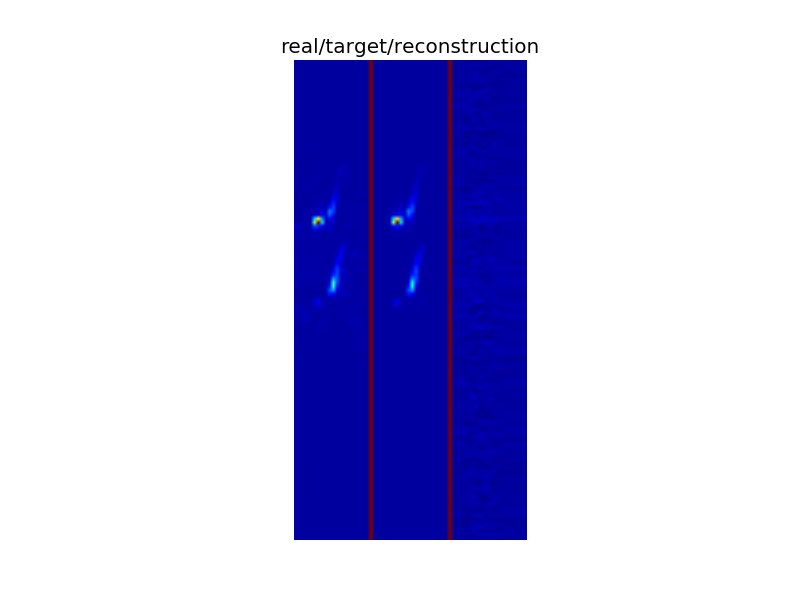
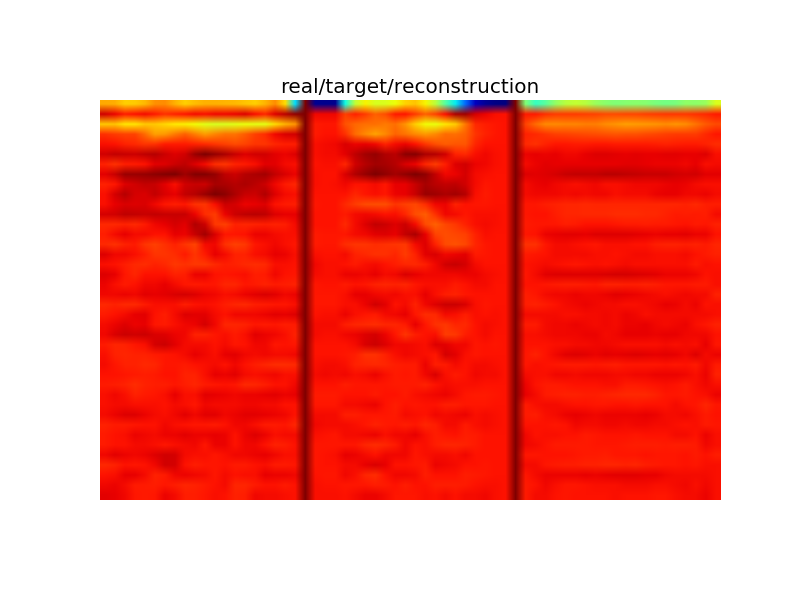
switched to mfcc

diff --git a/iterators.py b/iterators.py
@@ -131,8 +131,8 @@ class ParallelBatchIterator(object):
         #TODO: preprocess and load instead of transforming each time.
         for i in range(Xb.shape[0]):
             if self.mfcc:
-                Xb_new[i] = librosa.feature.mfcc(Xb[i], sr, n_mfcc=self.n_components, S=None)
-                yb_new[i] = librosa.feature.mfcc(yb[i], sr, n_mfcc=self.n_components, S=None)
+                Xb_new[i] = librosa.feature.mfcc(Xb[i], sr, n_mfcc=self.n_components, n_fft=2048, hop_length=512, S=None)
+                yb_new[i] = librosa.feature.mfcc(yb[i], sr, n_mfcc=self.n_components, n_fft=2048, hop_length=512, S=None)
             else:
                 Xb_new[i] = librosa.feature.melspectrogram(Xb[i], sr, n_mels=self.n_components, n_fft=2048, hop_length=512)
                 yb_new[i] = librosa.feature.melspectrogram(yb[i], sr, n_mels=self.n_components, n_fft=2048, hop_length=512)

diff --git a/neuralnet.py b/neuralnet.py
@@ -81,8 +81,8 @@ class NeuralNetwork():
         self.n_batches = ceil(len(X_train) / float(batch_size))
         self.n_val_batches = ceil(len(X_valid) / float(batch_size))
 
-        self.n_components = 128
-        self.mfcc = False
+        self.n_components = 40
+        self.mfcc = True
 
         self.batch_iterator_train = ParallelBatchIterator(X_train, y_train, batch_size, 'train', self.n_components, self.mfcc)
         self.batch_iterator_test = ParallelBatchIterator(X_valid, y_valid, batch_size, 'train', self.n_components, self.mfcc)

diff --git a/params.py b/params.py
@@ -1,7 +1,7 @@
 class Params():
 	def __init__(self):
 		self.BATCH_SIZE = 128
-		self.START_LEARNING_RATE = 1
+		self.START_LEARNING_RATE = 0.01
 		self.EPOCHS = 100
 
 		self.MAX_LENGTH = 10000
